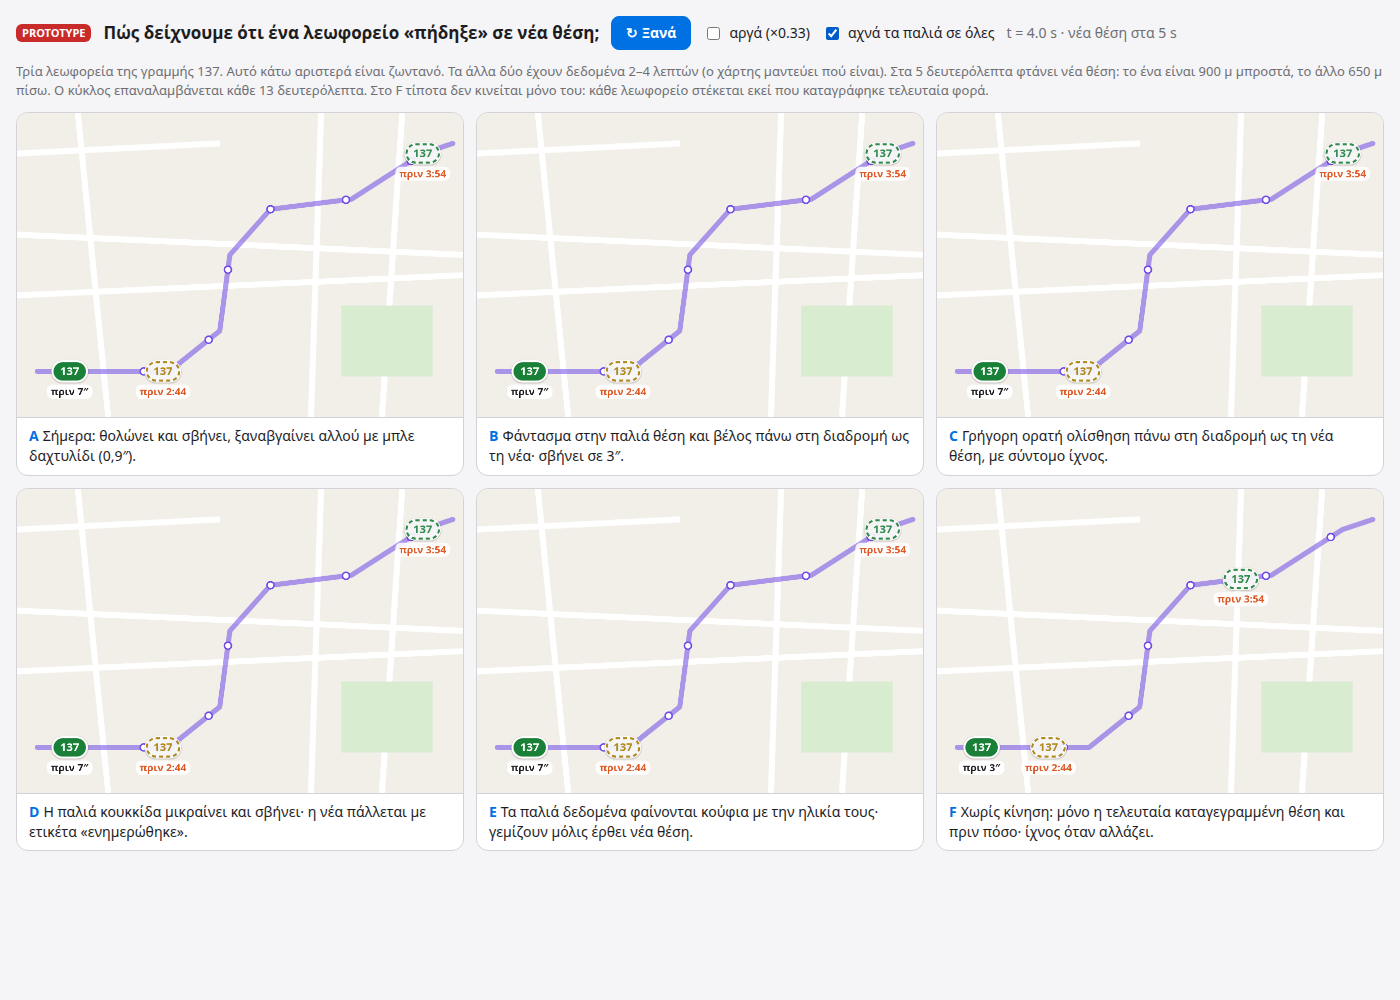
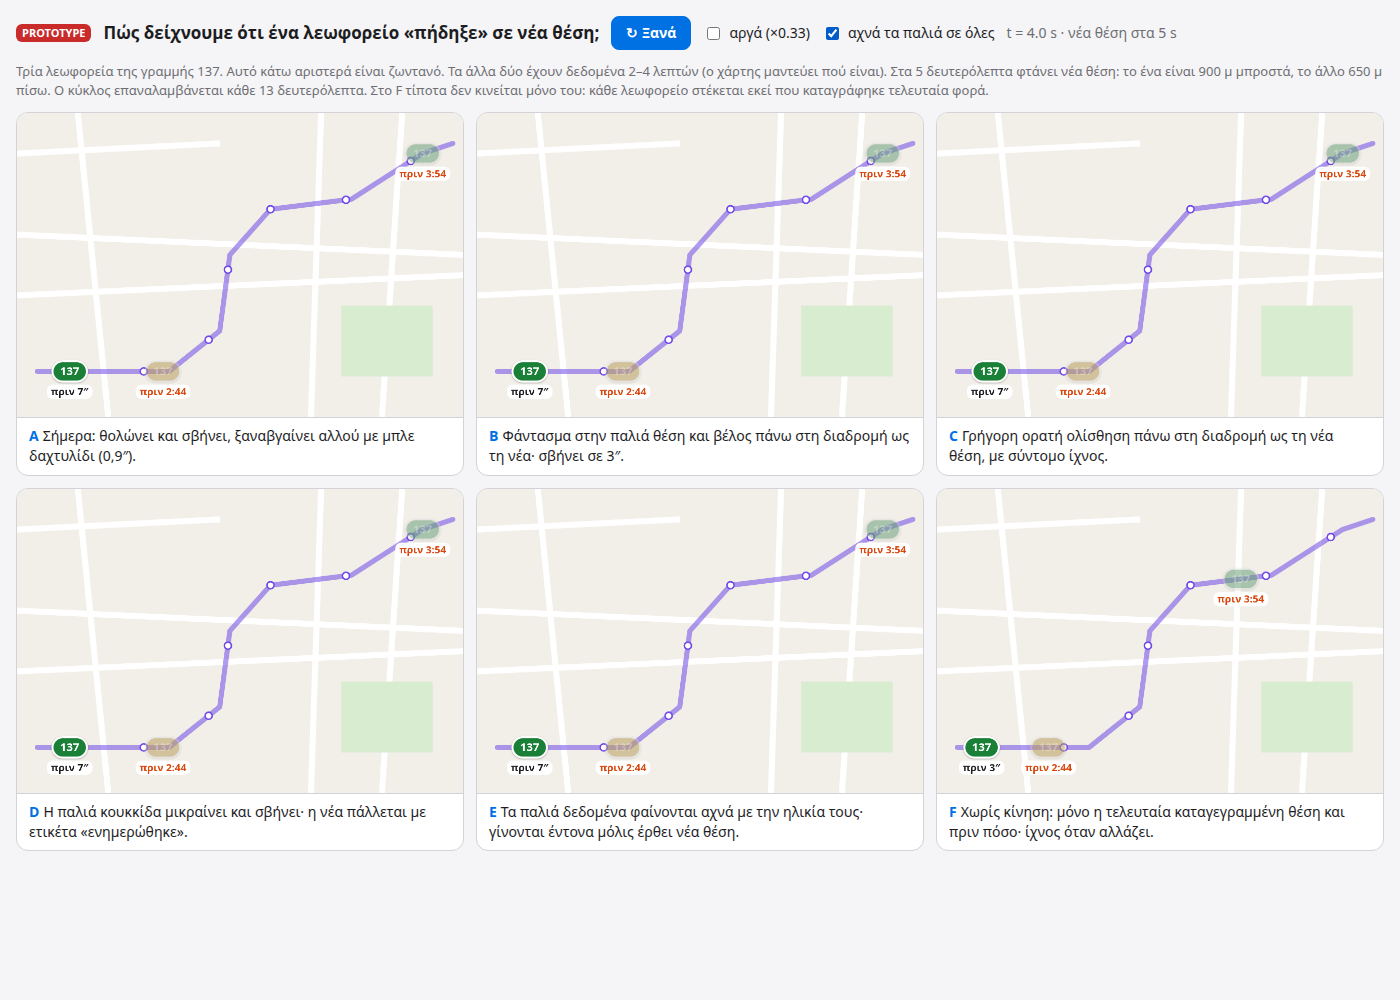
PROTOTYPE: stale look is faint (opacity), not hollow

diff --git a/proto/jump.js b/proto/jump.js
@@ -73,7 +73,7 @@ function rr(g, x, y, w, h, r) { g.beginPath(); g.roundRect(x, y, w, h, r); }
 // The bus pill as in the app: line number on the delay colour, white border, age label below.
 // o: { alpha, scale, blur, hollow (0..1), dashed, grey, ageText, ageColor }
 function pill(g, p, b, o = {}) {
-  const { alpha = 1, scale = 1, blur = 0, hollow = 0, dashed = false, grey = false, ageText, ageColor = "#1d1d1f" } = o;
+  const { alpha = 1, scale = 1, blur = 0, hollow = 0, dashed = false, grey = false, ageText, ageColor = "#1d1d1f", solidAge = false } = o;
   const col = grey ? "#9a9aa0" : C[b.cls];
   g.save(); g.globalAlpha = alpha; if (blur) g.filter = `blur(${blur}px)`;
   g.translate(p.x, p.y); g.scale(scale, scale);
@@ -86,6 +86,7 @@ function pill(g, p, b, o = {}) {
   g.font = "700 11px system-ui, sans-serif"; g.textAlign = "center"; g.textBaseline = "middle";
   g.fillText("137", 0, 0.5);
   if (ageText) {
+    if (solidAge) g.globalAlpha = 1;
     g.font = "600 10px system-ui, sans-serif";
     const w = g.measureText(ageText).width + 8;
     rr(g, -w / 2, 13, w, 14, 6); g.fillStyle = "rgba(255,255,255,.96)"; g.fill();
@@ -135,10 +136,11 @@ function todayLook(b, t) {
   const a = age(b, t);
   return a > 90 ? { alpha: 0.55, ageText: fmtAge(a), ageColor: C.late2 } : { ageText: fmtAge(a) };
 }
-// Proposed: hollow, dashed, with its age, so it reads as "a guess, not a fresh position".
+// Proposed: much fainter than today, age label still readable.
+const FAINT = 0.3;
+const faintLook = a => (a > 90 ? { alpha: FAINT, solidAge: true, ageText: fmtAge(a), ageColor: C.late2 } : { ageText: fmtAge(a) });
 function hollowLook(b, t) {
-  const a = age(b, t);
-  return a > 90 ? { hollow: 1, dashed: true, alpha: 0.9, ageText: fmtAge(a), ageColor: C.late2 } : { ageText: fmtAge(a) };
+  return faintLook(age(b, t));
 }
 
 // ---- variants: each draws the two stale buses for time t ----
@@ -200,14 +202,14 @@ const VARIANTS = [
     },
   },
   {
-    key: "E", caption: "Τα παλιά δεδομένα φαίνονται κούφια με την ηλικία τους· γεμίζουν μόλις έρθει νέα θέση.",
+    key: "E", caption: "Τα παλιά δεδομένα φαίνονται αχνά με την ηλικία τους· γίνονται έντονα μόλις έρθει νέα θέση.",
     stale: true,
     draw(g, b, t, look) {
       const dt = t - TJ;
       if (dt < 0 || dt >= 2) return pill(g, at(shownS(b, t)), b, look(b, t));
       const q = clamp(dt / 0.6);
-      pill(g, at(oldS(b)), b, { hollow: 1, dashed: true, grey: true, alpha: 0.8 * (1 - clamp(dt / 1.5)) });
-      pill(g, at(newS(b, t)), b, { hollow: 1 - q, dashed: q < 1, scale: 1 + 0.15 * Math.sin(q * Math.PI),
+      pill(g, at(oldS(b)), b, { grey: true, alpha: FAINT * (1 - clamp(dt / 1.5)) });
+      pill(g, at(newS(b, t)), b, { alpha: FAINT + (1 - FAINT) * q, solidAge: true, scale: 1 + 0.15 * Math.sin(q * Math.PI),
         ageText: dt < 1.6 ? "μόλις τώρα" : fmtAge(age(b, t)), ageColor: C.ontime });
     },
   },
@@ -220,7 +222,7 @@ const VARIANTS = [
         const prev = lastFix(b, f.at + 2 - 0.001);
         line(g, seg(prev.s, f.s), `rgba(0,113,227,${0.55 * (1 - since)})`, 8);
       }
-      pill(g, at(f.s), b, a > 90 ? { hollow: 1, dashed: true, alpha: 0.9, ageText: fmtAge(a), ageColor: C.late2 } : { ageText: fmtAge(a) });
+      pill(g, at(f.s), b, faintLook(a));
     },
   },
 ];
